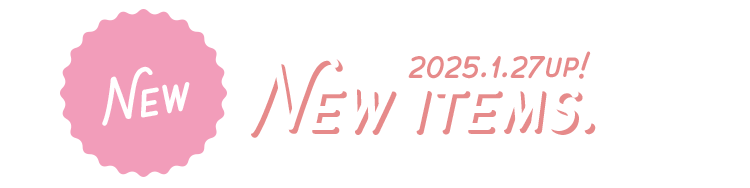
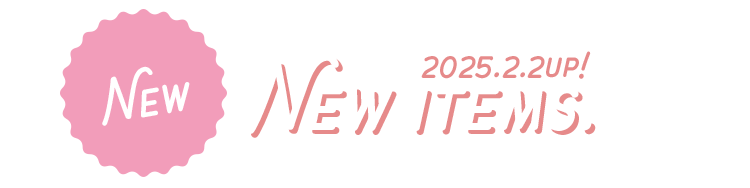
250202
mgnb & skru up

Changed region(s): [[0.5213, 0.2926, 0.736, 0.4255]]

diff --git a/index.html b/index.html
@@ -6,11 +6,11 @@
   <meta name="viewport" content="width=device-width, initial-scale=1, maximum-scale=1, shrink-to-fit=no">
   <meta name="robots" content="index, follow">
   <title>【すの担のためのフリー素材サイト】Free Icon & Header (made by mikan)</title>
-  <meta name="description" content="Snow Manを応援されてる方向けのX(旧Twitter)用オリジナルフリー素材配布サイトです。 #スノ担フリー素材部">
-  <meta name="keywords" content="SnowMan,Snow Man,アイコン,フリーアイコン,X(旧Twitter)アイコン,フリー素材,素材,スノ担フリー素材部,すの担,スノ担,ヲタバレ防止,オタバレ防止,推しはフリー素材じゃない,ジャニヲタで著作権について考えてみませんか,ジャニオタで著作権について考えてみませんか">
+  <meta name="description" content="Snow Manを応援されてる方向けのX用オリジナルフリー素材配布サイトです。 #スノ担フリー素材部">
+  <meta name="keywords" content="SnowMan,Snow Man,アイコン,フリーアイコン,Xアイコン,フリー素材,素材,スノ担フリー素材部,すの担,スノ担,ヲタバレ防止,オタバレ防止,推しはフリー素材じゃない,ジャニヲタで著作権について考えてみませんか,ジャニオタで著作権について考えてみませんか">
   <meta property="og:type" content="article">
   <meta property="og:title" content="Free Icon & Header (made by mikan)">
-  <meta property="og:description" content="Snow Manを応援されてる方向けのX(旧Twitter)用オリジナルフリー素材配布サイト #スノ担フリー素材部">
+  <meta property="og:description" content="Snow Manを応援されてる方向けのX用オリジナルフリー素材配布サイト #スノ担フリー素材部">
   <meta property="og:url" content="https://7nsto-mkn.github.io/i_and_h_mkn/">
   <meta property="og:image" content="https://7nsto-mkn.github.io/i_and_h_mkn/img/meta/ogp.png">
   <meta property="og:site_name" content="【すの担のためのフリー素材サイト】Free Icon & Header (made by mikan) #スノ担フリー素材部">
@@ -18,7 +18,7 @@
   <meta name="twitter:card" content="summary">
   <meta name="twitter:site" content="@7n_sto">
   <meta name="twitter:title" content="【すの担のためのフリー素材サイト】Free Icon & Header (made by mikan)">
-  <meta name="twitter:description" content="Snow Manを応援されてる方向けのX(旧Twitter)用オリジナルフリー素材配布サイト">
+  <meta name="twitter:description" content="Snow Manを応援されてる方向けのX用オリジナルフリー素材配布サイト">
   <meta name="twitter:image" content="https://7nsto-mkn.github.io/i_and_h_mkn/img/meta/ogp.png">
   <link rel="shortcut icon" href="/i_and_h_mkn//favicon.ico">
   <link rel="apple-touch-icon" href="/i_and_h_mkn//apple-touch-icon.png">
@@ -51,19 +51,11 @@
       <div class="head_bg">
         <h2>このページについて</h2>
       </div>
-      <p>アクセスいただきありがとうございます。<br>当サイトは<a href="//twitter.com/search?q=%23%E3%82%B9%E3%83%8E%E6%8B%85%E3%83%95%E3%83%AA%E3%83%BC%E7%B4%A0%E6%9D%90%E9%83%A8&src=typed_query" target="_blank" rel="noopener noreferrer">#スノ担フリー素材部</a> というタグを通して、Snow Manを応援されてる方向けのX(旧Twitter)用オリジナルフリー素材を作成・配布しているWebサイトです。シンプルなデザインの素材が多めです。</p>
-      <p>ご使用の際はお手数ですが、下記の<strong>「利用規約」</strong>を必ずお読みいただけるようお願いいたします…！<br>少しでもX(旧Twitter)上でのオタ活の手助けになりましたら幸いです。</p>
+      <p>アクセスいただきありがとうございます。<br>当サイトは<a href="//twitter.com/search?q=%23%E3%82%B9%E3%83%8E%E6%8B%85%E3%83%95%E3%83%AA%E3%83%BC%E7%B4%A0%E6%9D%90%E9%83%A8&src=typed_query" target="_blank" rel="noopener noreferrer">#スノ担フリー素材部</a> というタグを通して、Snow Manを応援されてる方向けのX用オリジナルフリー素材を作成・配布しているWebサイトです。シンプルなデザインの素材が多めです。</p>
+      <p>ご使用の際はお手数ですが、下記の<strong>「利用規約」</strong>を必ずお読みいただけるようお願いいたします…！<br>少しでもX上での推し活の手助けになりましたら幸いです。</p>
       <h3 class="h3-about"><i class="far fa-hand-point-right"></i>#スノ担フリー素材部とは？</h3>
-      <p>X(旧Twitter)内にてSnow Manのファンの間で考案・作成されたタグになります。Snow
-        Manに関連したモチーフやイラストを用いた素材を配布されている方はこのタグを主に使用しているため、著作権を侵害しないアイコンやヘッダー画像をお探しの方はぜひご活用ください。</p>
-      <details>
-        <summary>わかりやすくまとまっている詳細ツイートはこちらから</summary>
-        <div class="summary_open">
-          <blockquote class="twitter-tweet" data-lang="ja">
-            <p lang="ja" dir="ltr"><a href="//twitter.com/hashtag/%E3%82%B9%E3%83%8E%E6%8B%85%E3%83%95%E3%83%AA%E3%83%BC%E7%B4%A0%E6%9D%90%E9%83%A8?src=hash&amp;ref_src=twsrc%5Etfw">#スノ担フリー素材部</a>のタグをたくさんの方が使ってくださりありがとうございます！改めて使用方法のご案内と注意点、おすすめ検索法などをまとめましたのでアイコンやヘッダーの画像を探している人は是非覗いて見てください✎*。 <a href="//t.co/1xQiuzB09L">pic.twitter.com/1xQiuzB09L</a></p>&mdash; でで (@snow_snow_dd) <a href="//twitter.com/snow_snow_dd/status/1307524157207322626?ref_src=twsrc%5Etfw">2020年9月20日</a>
-          </blockquote>
-        </div>
-      </details>
+      <p>X内にてSnow Manのファンの間で考案・作成されたタグになります。<br>Snow
+        Manに関連したモチーフやイラストを用いた素材を配布されている方はこのタグを主に使用しているため、著作権を侵害しないアイコンやヘッダー画像をお探しの方はぜひご活用ください！</p>
     </div>
 
     <div class="section anchor">
@@ -90,21 +82,22 @@
             <dd class="ng">アイコン・ヘッダー以外としてのご使用</dd>
             <dd class="ng">印刷してのご使用</dd>
             <dd class="ng">本人画像をアイコン、ヘッダーに設定されている方のご使用(アイコンのみ、ヘッダーのみご使用の場合は片方どちらかが無断転載画像でしたら変更をお願いします)</dd>
-            <dd class="ng">本人画像や切り取り動画をツイートされている方のご使用(削除後にご使用ください)</dd>
-            <dd class="ng">本人画像や切り取り動画、画像や動画配布をしているツイートをRTされている方のご使用(辿れる範囲で大丈夫なのでRT取り消し後にご使用ください)</dd>
+            <dd class="ng">本人画像や切り取り動画をポストされている方のご使用(削除後にご使用ください)</dd>
+            <dd class="ng">本人画像や切り取り動画、画像や動画配布をしているポストをリポストされている方のご使用(辿れる範囲で大丈夫なのでリポスト取り消し後にご使用ください)</dd>
             <dd class="check_attention">
               <ul>
                 <li>※なにが無断転載になるのかわからない場合は<a href="#faq-why">「なにが無断転載にあたるのか」</a>をご確認ください。</li>
-                <li>※本人画像＝ジャニーズタレントが写っている画像です。保存をするのはご自由ですが、ネットへの再アップは無断転載になります。</li>
-                <li>※ジャニーズ以外でも使用許可が出ていない画像・動画は無断転載になりますのでご注意ください。</li>
+                <li>※本人画像＝タレントが写っている画像です。保存をするのはご自由ですが、ネットへの再アップは無断転載になります。</li>
+                <li>※どの事務所、キャラクターなどであっても使用許可が出ていない画像・動画は無断転載になりますのでご注意ください。</li>
               </ul>
             </dd>
             <dt class="ok">許可していること</dt>
             <dd class="ok">スマホ内へ素材画像を保存すること</dd>
-            <dd class="ok">X(旧Twitter) or LINEのアイコン、ヘッダーに設定すること</dd>
-            <dd class="ok">Instagramのアイコンに設定すること</dd>
-            <dd class="check_attention"><ul><li>インスタでご使用する場合は<a href="//www.instagram.com/7n_sto/" target="_blank" rel="noopener noreferrer">こちらのアカウント</a>のフォロー、またはプロフィール欄に「アイコンは@7n_stoの素材を使用」などの記載をお願いします(フォローも記載もしたくない方は絵文字箱にアカウント名をお書きください。私だけしか見えない状態ですので公開されることはありません)</li></ul></dd>
+            <dd class="ok">X or LINEのアイコン、ヘッダーに設定すること</dd>
+            <dd class="ok">Instagram(Threads)のアイコンに設定すること</dd>
+            <dd class="check_attention"><ul><li>インスタでご使用する場合は<a href="//www.instagram.com/7n_sto/" target="_blank" rel="noopener noreferrer">こちらのアカウント</a>のフォロー、またはプロフィール欄に「アイコンは@7n_stoの素材を使用」などの記載をお願いします(フォローも記載もしたくない方は絵文字箱にアカウント名をお書きください。私だけしか見えない状態ですので公開されることはありません)<br>※Threadsでご使用の場合も同じ対応で問題ございません</li></ul></dd>
             <dd class="ok">画像加工アプリや<a href="//icondecotter.jp/" target="_blank" rel="noopener noreferrer">iconDecotter</a>などをご使用して原型を留めた範囲内での加工</dd>
+            <dd class="ok">その他のSNSなどでご使用の場合は基本的にサインが見える状態であれば問題ございません</dd>
             <dd class="ok">当サイトで配布している画像同士のコーラジュ</dd>
             <dd class="check_attention"><ul><li>加工して画像内のサインが消えてしまった場合は<a href="#faq-remake">「どの程度加工していいですか？」</a>をお読みください</li></ul></dd>
             <p>最後までお読みいただきありがとうございます！</p>
@@ -118,7 +111,7 @@
         <summary class="faq">なにが無断転載にあたるのか</summary>
         <div class="summary_open faq-a">
           <p>
-            基本的にジャニーズタレントが写っている画像・動画(番組ロゴやタレントが描いたイラストも含みます)を勝手にネットへアップすると無断転載になります。ご自身で撮ったスクショであってもネットにアップした時点で無断転載です。自分が載せていなくても、明らかに公式ではないアカウントが勝手に載せている画像や動画のツイートをRT・いいねするだけでも無断転載になってしまいます。公式のフリをした偽アカにもご注意ください。<br>また、下記の画像にわかりやすくまとまっていますのでぜひご参考ください。×が付いているものが無断転載にあたります。※2枚目は1枚目に対しての解説です。<br>(はやぴー様(<a href="https://twitter.com/usxxiyseje" target="_blank" rel="noopener noreferrer">@usxxiyseje</a>)よりお借りいたしました。参照元ツイートは<a href="https://twitter.com/usxxiyseje/status/1301891241181806597?s=20" target="_blank" rel="noopener noreferrer">こちら</a>)</p>
+            基本的にジャニーズタレントが写っている画像・動画(番組ロゴやタレントが描いたイラストも含みます)を勝手にネットへアップすると無断転載になります。ご自身で撮ったスクショであってもネットにアップした時点で無断転載です。自分が載せていなくても、明らかに公式ではないアカウントが勝手に載せている画像や動画のポストをリポスト・いいねするだけでも無断転載になってしまいます。公式のフリをした偽アカにもご注意ください。<br>また、下記の画像にわかりやすくまとまっていますのでぜひご参考ください。×が付いているものが無断転載にあたります。※2枚目は1枚目に対しての解説です。<br>(はやぴー様(<a href="https://twitter.com/usxxiyseje" target="_blank" rel="noopener noreferrer">@usxxiyseje</a>)よりお借りいたしました。参照元ポストは<a href="https://twitter.com/usxxiyseje/status/1301891241181806597?s=20" target="_blank" rel="noopener noreferrer">こちら</a>)</p>
           <img src="/i_and_h_mkn/img/faq-why01.png" class="img-center" alt="ジャニーズを応援する人がSNSを使うときに気をつけたいこと">
           <img src="/i_and_h_mkn/img/faq-why02.png" class="img-center" alt="ジャニーズを応援する人がSNSを使うときに気をつけたいこと">
           <img src="/i_and_h_mkn/img/faq-why03.png" class="img-center" alt="ジャニーズを応援する人がSNSを使うときに気をつけたいこと">
@@ -143,13 +136,13 @@
           <h5>禁止事項</h5>
           <p>モチーフを見えなくしたり、大きく色味を変えるのはご遠慮ください。</p>
           <h5>サインについて</h5>
-          <p>作った側にも多少なりとも管理する義務はありますので、どこで作成したものか示すためにサインを入れています。もし加工したり拡大して設定した際に画像内の「made by @7n_sto」の文字が消えてしまった場合は当サイトの素材を使用したことがわかるよう、私のX(旧Twitter)ユーザー名(@7n_sto)やこのサイトのURL(下の方にシェアボタンあります)や#スノ担フリー素材部のタグをどこかに記載したりツイートいただけますようお願いします。<br>もし加工についての判断が難しいようでしたら、<a href="#contact">絵文字箱</a>、またはリプにてお気軽にご相談ください。</p>
+          <p>作った側にも多少なりとも管理する義務はありますので、どこで作成したものか示すためにサインを入れています。もし加工したり拡大して設定した際に画像内の「made by @7n_sto」の文字が消えてしまった場合は当サイトの素材を使用したことがわかるよう、私のXユーザー名(@7n_sto)やこのサイトのURL(下の方にシェアボタンあります)や#スノ担フリー素材部のタグをどこかに記載したりポストいただけますようお願いします。<br>もし加工についての判断が難しいようでしたら、<a href="#contact">絵文字箱</a>、またはリプにてお気軽にご相談ください。</p>
         </div>
       </details>
       <details>
         <summary class="faq">使用する際報告は必要ですか？</summary>
         <div class="summary_open faq-a">
-          <p>X(旧Twitter) or LINE上でご使用する際の報告や使用許可はご不要です、ご自由にお使いいただけます！<br>もしそれ以外でのSNSでのご使用を考えている場合は事前にご連絡いただけると助かります。<br>※基本は報告不要ですが絵文字箱での応援やツイートのRT・いいねなどとても励みになっています！大歓迎です。ありがとうございます…！
+          <p>X or LINE上でご使用する際の報告や使用許可はご不要です、ご自由にお使いいただけます！<br>もしそれ以外でのSNSでのご使用を考えている場合は事前にご連絡いただけると助かります。<br>※基本は報告不要ですが絵文字箱での応援やポストのリポスト・いいねなどとても励みになっています！大歓迎です。ありがとうございます…！
           </p>
         </div>
       </details>
@@ -178,7 +171,7 @@
         <a class="new_items" href="/i_and_h_mkn/new/"><img src="/i_and_h_mkn/img/new_items.png" loading="lazy" alt="新しく追加された素材はこちら"></a>
       </div>
       <div class="area_thumb column-3">
-        <a class="fk new" href="/i_and_h_mkn/fk/">
+        <a class="fk" href="/i_and_h_mkn/fk/">
           <div><img src="/i_and_h_mkn/img/thumb_fk.png" loading="lazy" alt="深澤担向けの素材はこちら"></div>
         </a>
         <a class="sk new" href="/i_and_h_mkn/sk/">
@@ -187,16 +180,16 @@
         <a class="nb new" href="/i_and_h_mkn/nb/">
           <div><img src="/i_and_h_mkn/img/thumb_nb.png" loading="lazy" alt="渡辺担向けの素材はこちら"></div>
         </a>
-        <a class="dt new" href="/i_and_h_mkn/dt/">
+        <a class="dt" href="/i_and_h_mkn/dt/">
           <div><img src="/i_and_h_mkn/img/thumb_dt.png" loading="lazy" alt="宮舘担向けの素材はこちら"></div>
         </a>
-        <a class="iw new" href="/i_and_h_mkn/iw/">
+        <a class="iw" href="/i_and_h_mkn/iw/">
           <div><img src="/i_and_h_mkn/img/thumb_iw.png" loading="lazy" alt="岩本担向けの素材はこちら"></div>
         </a>
-        <a class="ab new" href="/i_and_h_mkn/ab/">
+        <a class="ab" href="/i_and_h_mkn/ab/">
           <div><img src="/i_and_h_mkn/img/thumb_ab.png" loading="lazy" alt="阿部担向けの素材はこちら"></div>
         </a>
-        <a class="kj new" href="/i_and_h_mkn/kj/">
+        <a class="kj" href="/i_and_h_mkn/kj/">
           <div><img src="/i_and_h_mkn/img/thumb_kj.png" loading="lazy" alt="向井担向けの素材はこちら"></div>
         </a>
         <a class="mg new" href="/i_and_h_mkn/mg/">
@@ -230,7 +223,7 @@
           <p>※返信は上記ページ内下部にて確認できます！</p>
         </div>
       </div>
-      <p>また、X(旧Twitter)上には他の方が作られた素敵な素材がたくさんありますので、私の作ったものは少しちがうかな？と思ったら <a href="//twitter.com/search?q=%23%E3%82%B9%E3%83%8E%E6%8B%85%E3%83%95%E3%83%AA%E3%83%BC%E7%B4%A0%E6%9D%90%E9%83%A8&src=typed_query" target="_blank" rel="noopener noreferrer">#スノ担フリー素材部</a> のタグをぜひ覗いてみて下さい！</p>
+      <p>また、X上には他の方が作られた素敵な素材がたくさんありますので、私の作ったものは少しちがうかな？と思ったら <a href="//twitter.com/search?q=%23%E3%82%B9%E3%83%8E%E6%8B%85%E3%83%95%E3%83%AA%E3%83%BC%E7%B4%A0%E6%9D%90%E9%83%A8&src=typed_query" target="_blank" rel="noopener noreferrer">#スノ担フリー素材部</a> のタグをぜひ覗いてみて下さい！</p>
       <p>※写真系素材(もちろん本人画像ではありません)を使いたい…！という方はもしよろしければ下記をご参考ください。簡単にですが写真系素材サイトの紹介など含めまとめました。</p>
       <ul class="list link">
         <li><i class="fas fa-angle-right"></i><a href="//min.togetter.com/0sH3xC5" target="_blank" rel="noopener noreferrer">アイコン・ヘッダーにも使える◎写真素材サイト</a></li>
@@ -260,7 +253,7 @@
 
   <!-- js -->
   <script src="//ajax.googleapis.com/ajax/libs/jquery/3.4.1/jquery.min.js"></script>
-  <!-- X(旧Twitter) -->
+  <!-- X -->
   <script async src="//platform.twitter.com/widgets.js" charset="utf-8"></script>
   <!-- smooth-scroll -->
   <script type="text/javascript" src="/i_and_h_mkn/js/smooth-scroll.js"></script>

diff --git a/new/index.html b/new/index.html
@@ -35,6 +35,28 @@
     <div class="sub-page_ttl newitems"><img src="/i_and_h_mkn/img/ttl_new.png" alt="新しく追加された素材"></div>
     <p>新しく追加した素材です。<br>必ず<a href="../index.html#rules">利用規約</a>をお読みになったうえで、以下より保存してお使いください。<br>※タップすると画像だけを表示できます</p>
     <div class="section">
+
+      <div class="area_item">
+        <a id="s3unit" class="anchor"></a>
+        <p class="new">Bass Bon<img src="/i_and_h_mkn/img/new_title.png" alt="new"></p>
+        <div class="area_icon">
+          <a href="/i_and_h_mkn/img/icon/combi/ic_skru_s3_unit.png" onclick="ga('send','event','sozai','click','image', 1);"><img src="/i_and_h_mkn/img/icon/combi/ic_skru_s3_unit.png" alt="Bass Bon さくラウ 佐久間大介 ラウール アイコン"></a>
+        </div>
+        <div class="area_header">
+          <a href="/i_and_h_mkn/img/header/combi/hd_skru_s3_unit.png" onclick="ga('send','event','sozai','click','image', 1);"><img src="/i_and_h_mkn/img/header/combi/hd_skru_s3_unit.png" alt="Bass Bon さくラウ 佐久間大介 ラウール ヘッダー"></a>
+        </div>
+      </div>
+
+      <div class="area_item">
+        <a id="s3unit" class="anchor"></a>
+        <p class="new">TWO<img src="/i_and_h_mkn/img/new_title.png" alt="new"></p>
+        <div class="area_icon">
+          <a href="/i_and_h_mkn/img/icon/combi/ic_mgnb_s3_unit.png" onclick="ga('send','event','sozai','click','image', 1);"><img src="/i_and_h_mkn/img/icon/combi/ic_mgnb_s3_unit.png" alt="TWO めめなべ 渡辺翔太 目黒蓮 アイコン"></a>
+        </div>
+        <div class="area_header">
+          <a href="/i_and_h_mkn/img/header/combi/hd_mgnb_s3_unit.png" onclick="ga('send','event','sozai','click','image', 1);"><img src="/i_and_h_mkn/img/header/combi/hd_mgnb_s3_unit.png" alt="TWO めめなべ 渡辺翔太 目黒蓮 ヘッダー"></a>
+        </div>
+      </div>
     
       <div class="area_item">
         <a id="combi03" class="anchor"></a>

diff --git a/ru/index.html b/ru/index.html
@@ -39,6 +39,7 @@
       <form>
         <select name="menu">
           <option>こちらから選択してください</option>
+          <option value="#s3unit">Bass Bon [New]</option>
           <option value="#combi03">雪だるま(背景チェック柄/シンメ・コンビver) [New]</option>
           <option value="#sm03">雪だるま(背景チェック柄)</option>
           <option value="#wgt">We'll go together</option>
@@ -71,6 +72,17 @@
     <div class="sub-page_ttl ru"><img src="/i_and_h_mkn/img/ttl_ru.png" alt="ラウール担向けの素材"></div>
     <p>ラウール担の方向けの素材です。<br>必ず<a href="../index.html#rules">利用規約</a>をお読みになったうえで、以下より保存してお使いください。<br>※タップすると画像だけを表示できます</p>
     <div class="section">
+
+      <div class="area_item">
+        <a id="s3unit" class="anchor"></a>
+        <p class="new">Bass Bon<img src="/i_and_h_mkn/img/new_title.png" alt="new"></p>
+        <div class="area_icon">
+          <a href="/i_and_h_mkn/img/icon/combi/ic_skru_s3_unit.png" onclick="ga('send','event','sozai','click','image', 1);"><img src="/i_and_h_mkn/img/icon/combi/ic_skru_s3_unit.png" alt="Bass Bon さくラウ 佐久間大介 ラウール アイコン"></a>
+        </div>
+        <div class="area_header">
+          <a href="/i_and_h_mkn/img/header/combi/hd_skru_s3_unit.png" onclick="ga('send','event','sozai','click','image', 1);"><img src="/i_and_h_mkn/img/header/combi/hd_skru_s3_unit.png" alt="Bass Bon さくラウ 佐久間大介 ラウール ヘッダー"></a>
+        </div>
+      </div>
 
       <div class="area_item">
         <a id="combi03" class="anchor"></a>

diff --git a/sk/index.html b/sk/index.html
@@ -36,6 +36,7 @@
       <form>
         <select name="menu">
           <option>こちらから選択してください</option>
+          <option value="#s3unit">Bass Bon [New]</option>
           <option value="#combi03">雪だるま(背景チェック柄/シンメ・コンビver) [New]</option>
           <option value="#sm03">雪だるま(背景チェック柄)</option>
           <option value="#wgt">We'll go together</option>
@@ -67,6 +68,17 @@
     <div class="sub-page_ttl sk"><img src="/i_and_h_mkn/img/ttl_sk.png" alt="佐久間担向けの素材"></div>
     <p>佐久間担の方向けの素材です。<br>必ず<a href="../index.html#rules">利用規約</a>をお読みになったうえで、以下より保存してお使いください。<br>※タップすると画像だけを表示できます</p>
     <div class="section">
+
+      <div class="area_item">
+        <a id="s3unit" class="anchor"></a>
+        <p class="new">Bass Bon<img src="/i_and_h_mkn/img/new_title.png" alt="new"></p>
+        <div class="area_icon">
+          <a href="/i_and_h_mkn/img/icon/combi/ic_skru_s3_unit.png" onclick="ga('send','event','sozai','click','image', 1);"><img src="/i_and_h_mkn/img/icon/combi/ic_skru_s3_unit.png" alt="Bass Bon さくラウ 佐久間大介 ラウール アイコン"></a>
+        </div>
+        <div class="area_header">
+          <a href="/i_and_h_mkn/img/header/combi/hd_skru_s3_unit.png" onclick="ga('send','event','sozai','click','image', 1);"><img src="/i_and_h_mkn/img/header/combi/hd_skru_s3_unit.png" alt="Bass Bon さくラウ 佐久間大介 ラウール ヘッダー"></a>
+        </div>
+      </div>
 
       <div class="area_item">
         <a id="combi03" class="anchor"></a>

diff --git a/mg/index.html b/mg/index.html
@@ -39,6 +39,7 @@
       <form>
         <select name="menu">
           <option>こちらから選択してください</option>
+          <option value="#s3unit">TWO [New]</option>
           <option value="#combi03">雪だるま(背景チェック柄/シンメ・コンビver) [New]</option>
           <option value="#sm03">雪だるま(背景チェック柄)</option>
           <option value="#wgt">We'll go together</option>
@@ -70,6 +71,17 @@
     <div class="sub-page_ttl mg"><img src="/i_and_h_mkn/img/ttl_mg.png" alt="目黒担向けの素材"></div>
     <p>目黒担の方向けの素材です。<br>必ず<a href="../index.html#rules">利用規約</a>をお読みになったうえで、以下より保存してお使いください。<br>※タップすると画像だけを表示できます</p>
     <div class="section">
+
+      <div class="area_item">
+        <a id="s3unit" class="anchor"></a>
+        <p class="new">TWO<img src="/i_and_h_mkn/img/new_title.png" alt="new"></p>
+        <div class="area_icon">
+          <a href="/i_and_h_mkn/img/icon/combi/ic_mgnb_s3_unit.png" onclick="ga('send','event','sozai','click','image', 1);"><img src="/i_and_h_mkn/img/icon/combi/ic_mgnb_s3_unit.png" alt="TWO めめなべ 渡辺翔太 目黒蓮 アイコン"></a>
+        </div>
+        <div class="area_header">
+          <a href="/i_and_h_mkn/img/header/combi/hd_mgnb_s3_unit.png" onclick="ga('send','event','sozai','click','image', 1);"><img src="/i_and_h_mkn/img/header/combi/hd_mgnb_s3_unit.png" alt="TWO めめなべ 渡辺翔太 目黒蓮 ヘッダー"></a>
+        </div>
+      </div>
 
       <div class="area_item">
         <a id="combi03" class="anchor"></a>

diff --git a/nb/index.html b/nb/index.html
@@ -39,6 +39,7 @@
       <form>
         <select name="menu">
           <option>こちらから選択してください</option>
+          <option value="#s3unit">TWO [New]</option>
           <option value="#combi03">雪だるま(背景チェック柄/シンメ・コンビver) [New]</option>
           <option value="#sm03">雪だるま(背景チェック柄)</option>
           <option value="#wgt">We'll go together</option>
@@ -70,6 +71,17 @@
     <div class="sub-page_ttl nb"><img src="/i_and_h_mkn/img/ttl_nb.png" alt="渡辺担向けの素材"></div>
     <p>渡辺担の方向けの素材です。<br>必ず<a href="../index.html#rules">利用規約</a>をお読みになったうえで、以下より保存してお使いください。<br>※タップすると画像だけを表示できます</p>
     <div class="section">
+
+      <div class="area_item">
+        <a id="s3unit" class="anchor"></a>
+        <p class="new">TWO<img src="/i_and_h_mkn/img/new_title.png" alt="new"></p>
+        <div class="area_icon">
+          <a href="/i_and_h_mkn/img/icon/combi/ic_mgnb_s3_unit.png" onclick="ga('send','event','sozai','click','image', 1);"><img src="/i_and_h_mkn/img/icon/combi/ic_mgnb_s3_unit.png" alt="TWO めめなべ 渡辺翔太 目黒蓮 アイコン"></a>
+        </div>
+        <div class="area_header">
+          <a href="/i_and_h_mkn/img/header/combi/hd_mgnb_s3_unit.png" onclick="ga('send','event','sozai','click','image', 1);"><img src="/i_and_h_mkn/img/header/combi/hd_mgnb_s3_unit.png" alt="TWO めめなべ 渡辺翔太 目黒蓮 ヘッダー"></a>
+        </div>
+      </div>
 
       <div class="area_item">
         <a id="combi03" class="anchor"></a>
